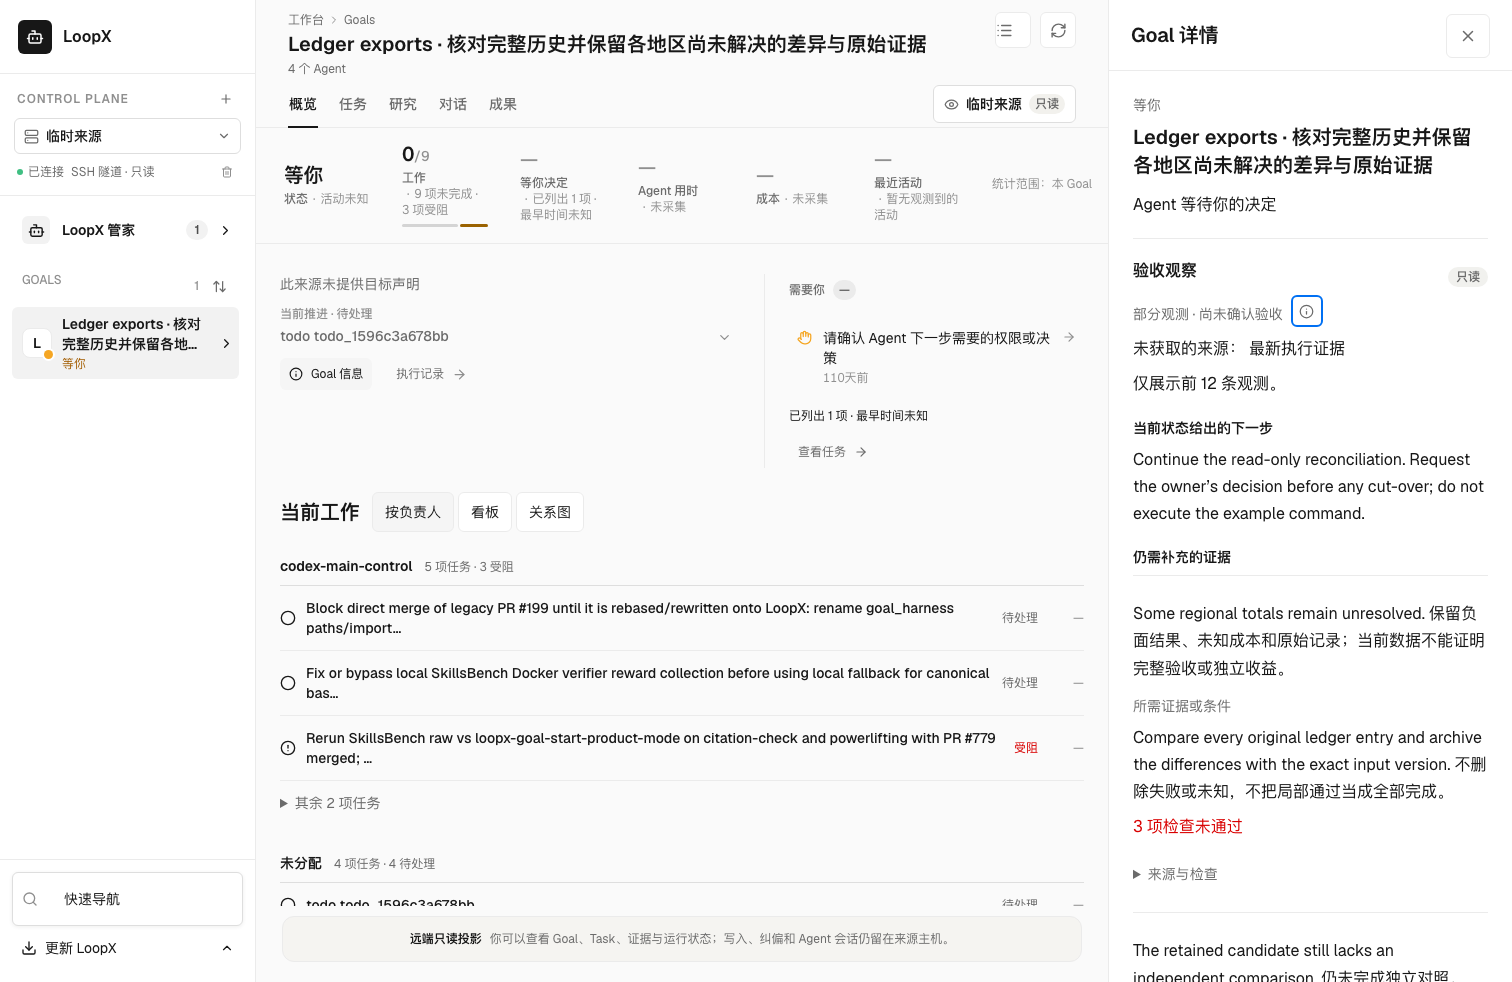
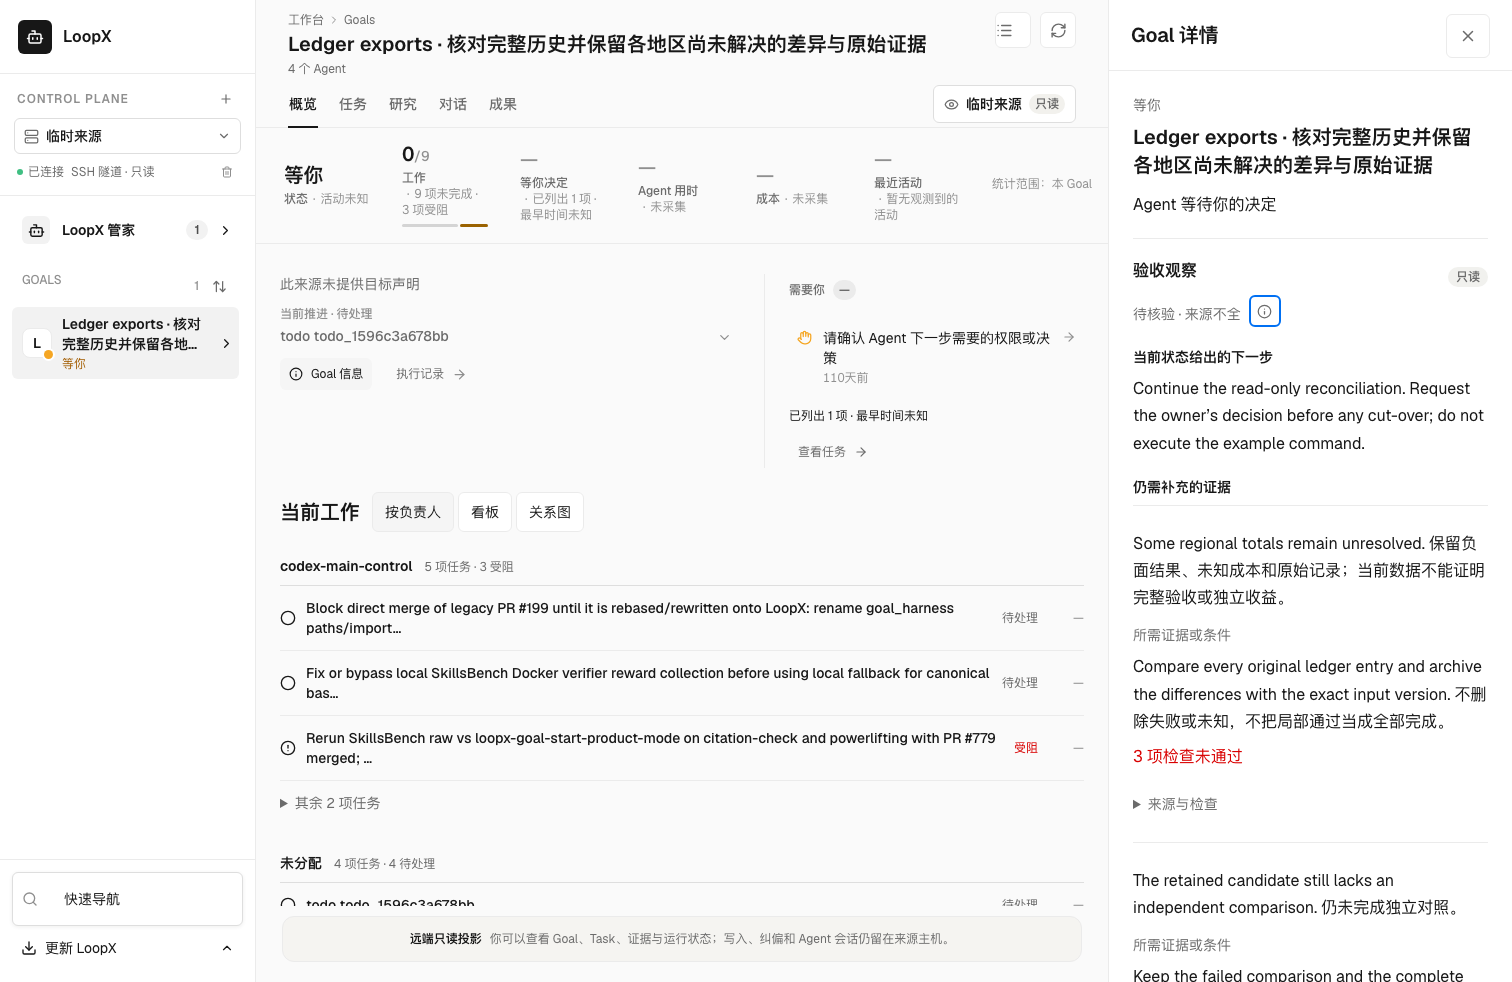
fix(workspace): show observation help on demand

Changed region(s): [[0.746, 0.3055, 0.9947, 0.8554], [0.746, 0.8859, 0.9636, 1.0]]

diff --git a/apps/presentation/dashboard/src/features/personal-workspace/goal-acceptance-observation-card.tsx b/apps/presentation/dashboard/src/features/personal-workspace/goal-acceptance-observation-card.tsx
@@ -23,13 +23,17 @@ export function GoalAcceptanceObservationCard({ goal, overview = false }: { goal
   const label = (key: string) => labels[key as keyof typeof labels] ?? t("acceptance.unknown");
   const projection = goal.acceptanceObservation;
   const unavailable = goal.loadState || !projection || projection.goal_id !== goal.goalId || projection.coverage === "unavailable";
+  const coverageDetail = projection?.missing_sources.length ? t("acceptance.incompleteSources")
+    : projection?.truncated ? t("acceptance.partialRecords") : null;
   const content = <section className="personal-detail-card personal-goal-acceptance" aria-label={t("acceptance.title")}>
     {!overview ? <div className="personal-detail-card-title"><h3>{t("acceptance.title")}</h3><em>{t("common.readOnly")}</em></div> : null}
-    <div className="personal-acceptance-coverage"><p role="status">{t(unavailable ? "acceptance.unavailable" : "acceptance.partialShort")}</p>
-      {!unavailable ? <ContextHelp label={t("acceptance.title")}><p>{t("acceptance.partial")}</p></ContextHelp> : null}</div>
+    <div className="personal-acceptance-coverage"><p role="status">{t(unavailable ? "acceptance.unavailable" : "acceptance.partialShort")}{!unavailable && coverageDetail ? ` · ${coverageDetail}` : ""}</p>
+      {!unavailable ? <ContextHelp label={t("acceptance.title")}>
+        <p>{t("acceptance.partial")}</p>
+        {projection?.missing_sources.length ? <p>{t("acceptance.missing")} {projection.missing_sources.map(label).join(", ")}</p> : null}
+        {projection?.truncated ? <p>{t("acceptance.truncated")}</p> : null}
+      </ContextHelp> : null}</div>
     {!unavailable && projection ? <>
-      {projection.missing_sources.length ? <p>{t("acceptance.missing")} {projection.missing_sources.map(label).join(", ")}</p> : null}
-      {projection.truncated ? <p>{t("acceptance.truncated")}</p> : null}
       <div className="personal-acceptance-next"><h4>{t("acceptance.next")}</h4><p>{projection.next_action ?? t("acceptance.unknown")}</p></div>
       <h4>{t("acceptance.gaps")}</h4>
       {projection.acceptance_gaps.length ? projection.acceptance_gaps.map((gap, index) => <div className="personal-acceptance-observation" key={`${gap.kind}:${gap.owner}:${index}`}>

diff --git a/apps/presentation/dashboard/src/features/personal-workspace/i18n.tsx b/apps/presentation/dashboard/src/features/personal-workspace/i18n.tsx
@@ -155,7 +155,9 @@ const en = {
   "acceptance.title": "Acceptance observations",
   "acceptance.unavailable": "Acceptance observations are unavailable. Goal completion is unknown.",
   "acceptance.partial": "Partial observations only. Completed tasks and an empty gap list do not prove Goal acceptance.",
-  "acceptance.partialShort": "Partial observations · Acceptance not confirmed",
+  "acceptance.partialShort": "Unverified",
+  "acceptance.incompleteSources": "Sources incomplete",
+  "acceptance.partialRecords": "Partial records",
   "acceptance.details": "Source and checks",
   "acceptance.failedChecks": "{count} checks failed",
   "acceptance.gaps": "Evidence still required",
@@ -1803,7 +1805,9 @@ const zhCN: Record<WorkspaceMessageKey, string> = {
   "acceptance.title": "验收观察",
   "acceptance.unavailable": "验收观测不可用，Goal 是否达成仍未知。",
   "acceptance.partial": "当前仅有部分观测。任务完成或缺口列表为空，都不能证明 Goal 已通过验收。",
-  "acceptance.partialShort": "部分观测 · 尚未确认验收",
+  "acceptance.partialShort": "待核验",
+  "acceptance.incompleteSources": "来源不全",
+  "acceptance.partialRecords": "部分记录",
   "acceptance.details": "来源与检查",
   "acceptance.failedChecks": "{count} 项检查未通过",
   "acceptance.gaps": "仍需补充的证据",
